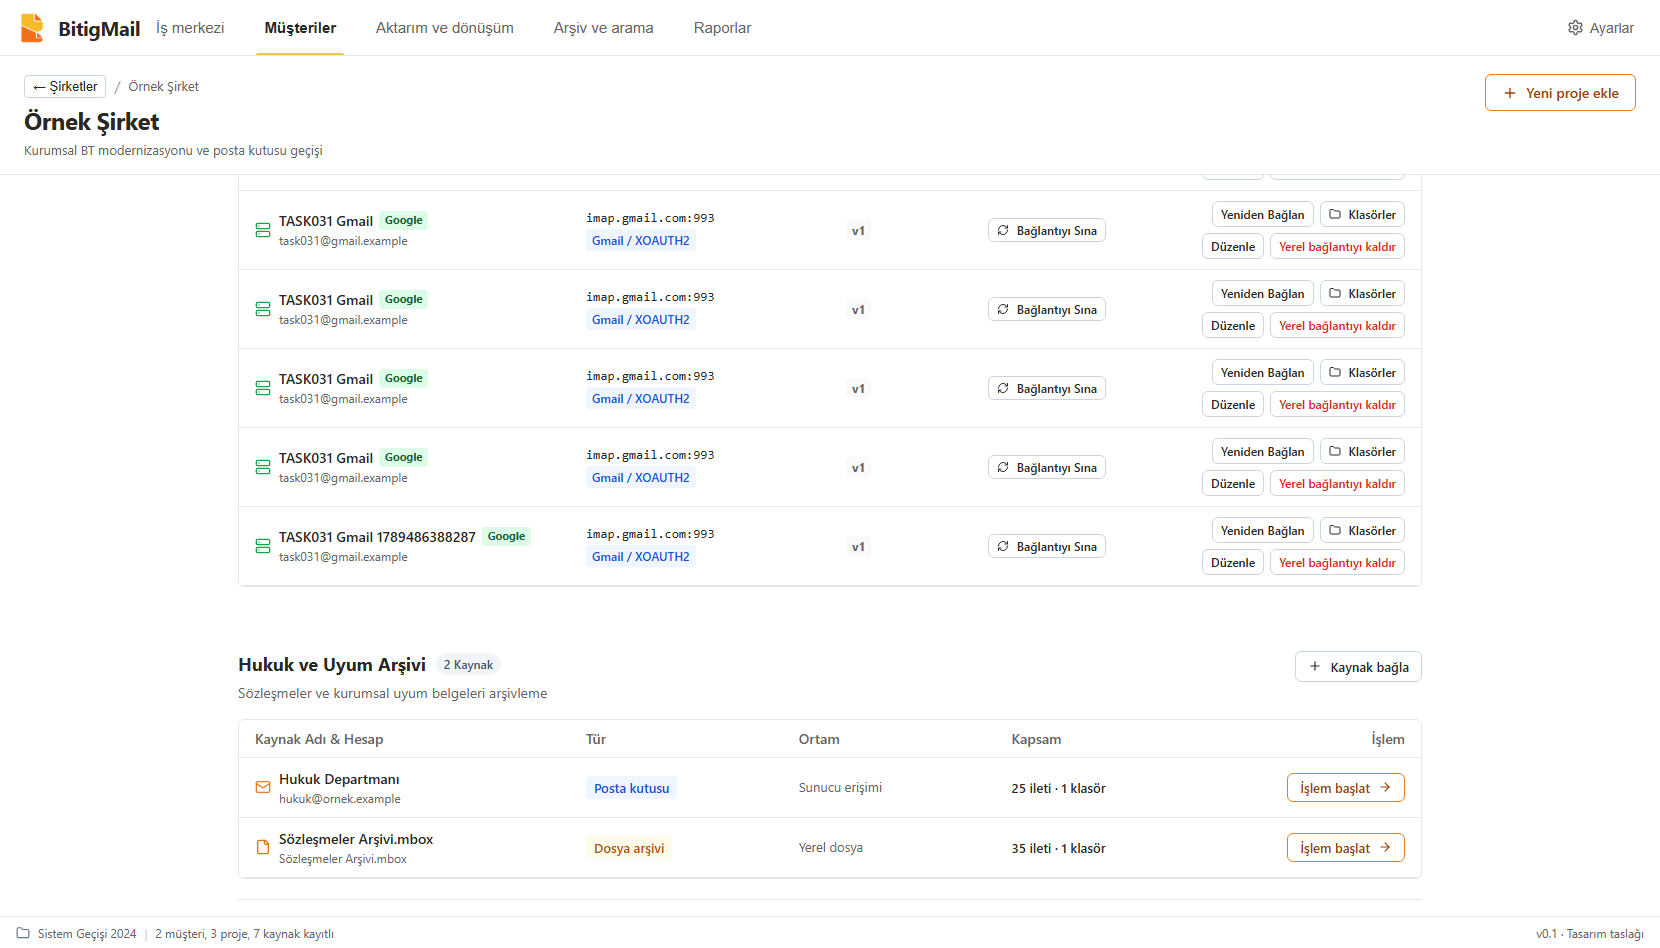
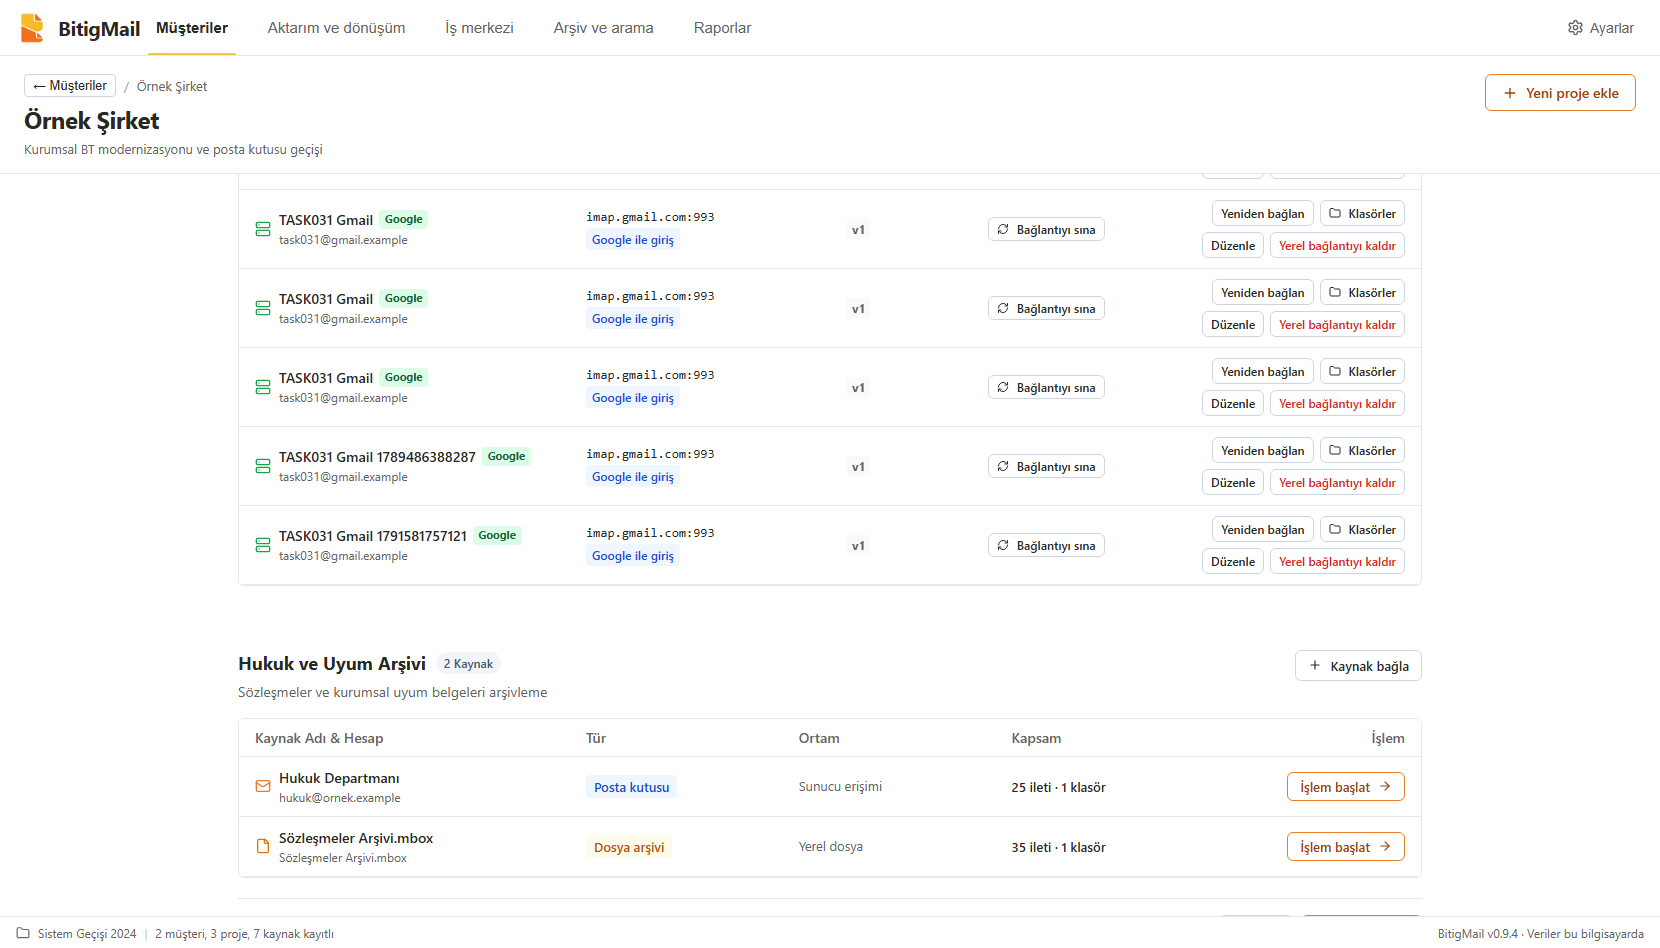
[main] Hesap penceresi: sekmeler sığar, kısa güvenlik seçenekleri; task031 ortak oturum yardımcısıyla

diff --git a/prototype/src/components/clients/ProjectImapAccounts.tsx b/prototype/src/components/clients/ProjectImapAccounts.tsx
@@ -902,7 +902,7 @@ export const ProjectImapAccounts: React.FC<ProjectImapAccountsProps> = ({
         title={accountTypeTab === 'microsoft365' ? 'Microsoft hesabı bağla' : accountTypeTab === 'google' ? 'Google hesabı bağla' : 'Posta hesabı bağla'}
         size="md"
       >
-        <div style={{ display: 'flex', gap: '8px', borderBottom: '1px solid var(--border-light)', paddingBottom: '12px', marginBottom: '14px' }}>
+        <div style={{ display: 'flex', flexWrap: 'wrap', gap: '8px', borderBottom: '1px solid var(--border-light)', paddingBottom: '12px', marginBottom: '14px' }}>
           <button
             type="button"
             className={`btn ${accountTypeTab === 'imap' ? 'btn-orange' : 'btn-outline-gray'}`}
@@ -913,7 +913,7 @@ export const ProjectImapAccounts: React.FC<ProjectImapAccountsProps> = ({
             }}
             data-testid="tab-standard-imap"
           >
-            Diğer sunucu (IMAP)
+            IMAP sunucusu
           </button>
           <button
             type="button"
@@ -926,7 +926,7 @@ export const ProjectImapAccounts: React.FC<ProjectImapAccountsProps> = ({
           </button>
           <button type="button" className={`btn ${accountTypeTab === 'google' ? 'btn-orange' : 'btn-outline-gray'}`}
             style={{ padding: '6px 14px', fontSize: '0.8125rem' }} onClick={() => { setAccountTypeTab('google'); m365OAuth.resetSession(true); }} data-testid="tab-google-oauth">
-            Gmail / Google Workspace
+            Gmail / Workspace
           </button>
         </div>
 
@@ -1227,7 +1227,7 @@ export const ProjectImapAccounts: React.FC<ProjectImapAccountsProps> = ({
               <summary style={{ cursor: 'pointer', fontWeight: 600 }}>Teknik ayrıntılar</summary>
               <ul style={{ margin: '6px 0 0', paddingLeft: 20, display: 'flex', flexDirection: 'column', gap: 4, lineHeight: 1.5 }}>
                 <li>Parola Windows DPAPI ile bu Windows kullanıcısına bağlı şifrelenir; düz metin tutulmaz.</li>
-                <li>Varsayılan bağlantı SSL/TLS'tir (genellikle 993 portu). STARTTLS genellikle 143 portunu kullanır.</li>
+                <li>Varsayılan ve önerilen bağlantı SSL/TLS'tir (genellikle 993 portu). STARTTLS genellikle 143 portunu kullanır.</li>
                 <li>Şifresiz bağlantı yalnız açıkça seçilip risk onaylanınca kaydedilir.</li>
               </ul>
             </details>
@@ -1256,7 +1256,7 @@ export const ProjectImapAccounts: React.FC<ProjectImapAccountsProps> = ({
 
               <div>
                 <label style={{ display: 'block', fontSize: '0.8125rem', fontWeight: 600, marginBottom: '4px' }}>
-                  E-posta Adresi *
+                  E-posta adresi *
                 </label>
                 <input
                   type="email"
@@ -1270,7 +1270,7 @@ export const ProjectImapAccounts: React.FC<ProjectImapAccountsProps> = ({
               </div>
             </div>
 
-            <div style={{ display: 'grid', gridTemplateColumns: '2fr 1fr 1fr', gap: '12px' }}>
+            <div style={{ display: 'grid', gridTemplateColumns: '2fr 1fr 1.6fr', gap: '12px' }}>
               <div>
                 <label style={{ display: 'block', fontSize: '0.8125rem', fontWeight: 600, marginBottom: '4px' }}>
                   Sunucu adresi *
@@ -1304,7 +1304,7 @@ export const ProjectImapAccounts: React.FC<ProjectImapAccountsProps> = ({
 
               <div>
                 <label style={{ display: 'block', fontSize: '0.8125rem', fontWeight: 600, marginBottom: '4px' }}>
-                  Bağlantı güvenliği *
+                  Güvenlik *
                 </label>
                 <select
                   className="text-input"
@@ -1312,8 +1312,8 @@ export const ProjectImapAccounts: React.FC<ProjectImapAccountsProps> = ({
                   onChange={(e) => handleTlsModeChange(e.target.value as 'ssl' | 'starttls' | 'none')}
                   data-testid="create-account-tls-select"
                 >
-                  <option value="ssl">Şifreli: SSL/TLS (993, önerilen)</option>
-                  <option value="starttls">Şifreli: STARTTLS (143)</option>
+                  <option value="ssl">SSL/TLS</option>
+                  <option value="starttls">STARTTLS</option>
                   <option value="none">Şifresiz (önerilmez)</option>
                 </select>
               </div>
@@ -1521,7 +1521,7 @@ export const ProjectImapAccounts: React.FC<ProjectImapAccountsProps> = ({
 
                 <div>
                   <label htmlFor="edit-account-email-input" style={{ display: 'block', fontSize: '0.8125rem', fontWeight: 600, marginBottom: '4px' }}>
-                    E-posta Adresi *
+                    E-posta adresi *
                   </label>
                   <input
                     id="edit-account-email-input"
@@ -1535,7 +1535,7 @@ export const ProjectImapAccounts: React.FC<ProjectImapAccountsProps> = ({
                 </div>
               </div>
 
-              <div style={{ display: 'grid', gridTemplateColumns: '2fr 1fr 1fr', gap: '12px' }}>
+              <div style={{ display: 'grid', gridTemplateColumns: '2fr 1fr 1.6fr', gap: '12px' }}>
                 <div>
                   <label htmlFor="edit-account-host-input" style={{ display: 'block', fontSize: '0.8125rem', fontWeight: 600, marginBottom: '4px' }}>
                     Sunucu adresi *
@@ -1570,7 +1570,7 @@ export const ProjectImapAccounts: React.FC<ProjectImapAccountsProps> = ({
 
                 <div>
                   <label htmlFor="edit-account-tls-select" style={{ display: 'block', fontSize: '0.8125rem', fontWeight: 600, marginBottom: '4px' }}>
-                    Bağlantı güvenliği *
+                    Güvenlik *
                   </label>
                   <select
                     id="edit-account-tls-select"
@@ -1580,8 +1580,8 @@ export const ProjectImapAccounts: React.FC<ProjectImapAccountsProps> = ({
                     data-testid="edit-account-tls-select"
                   >
                     <option value="none">Şifresiz (önerilmez)</option>
-                    <option value="ssl">Şifreli: SSL/TLS (993, önerilen)</option>
-                    <option value="starttls">Şifreli: STARTTLS (143)</option>
+                    <option value="ssl">SSL/TLS</option>
+                    <option value="starttls">STARTTLS</option>
                   </select>
                 </div>
               </div>

diff --git a/prototype/tests/e2e/task031-google-real-ui.spec.ts b/prototype/tests/e2e/task031-google-real-ui.spec.ts
@@ -1,9 +1,12 @@
 import { test, expect } from '@playwright/test';
 import path from 'path';
+import { openDevelopmentSession, useDevelopmentTestingHost } from './support/testingHost';
+
+useDevelopmentTestingHost();
 
 test('TASK-031 TestingHost Google add flow reaches durable connected state', async ({ page }) => {
   const owner = `TASK031 Gmail ${Date.now()}`;
-  await page.addInitScript(() => { (window as any).__BITIGMAIL_ENGINE_URL__ = 'http://127.0.0.1:6175'; });
+  await openDevelopmentSession(page);
   await page.goto('/');
   await page.getByTestId('view-company-btn-comp-ornek').click();
   await page.locator('[data-testid^="add-account-btn-"]').first().click();
